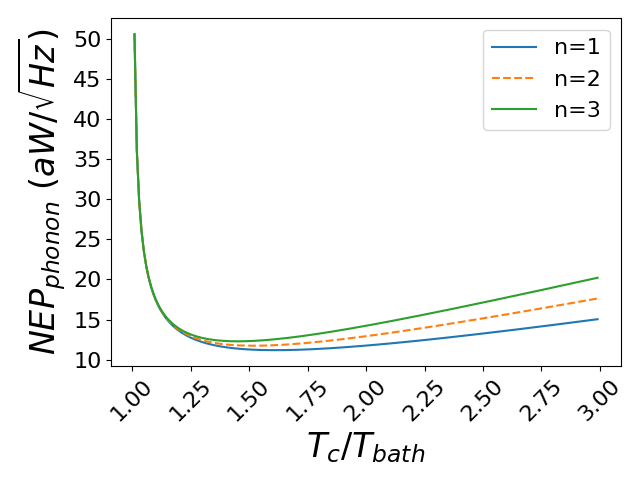
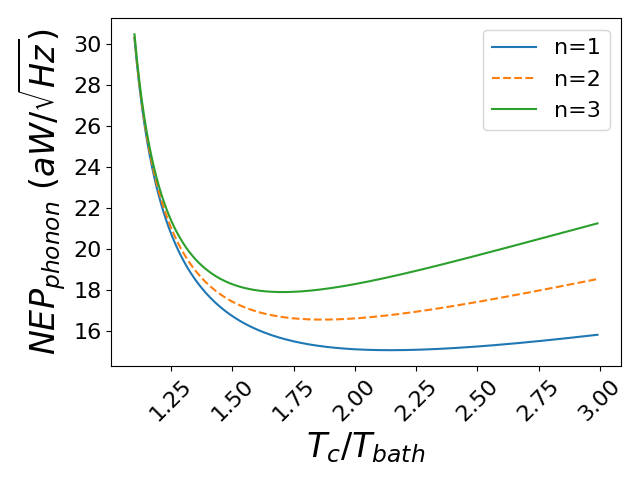
update ideal tc figure and section

diff --git a/optimization.tex b/optimization.tex
@@ -430,17 +430,21 @@ To express the phonon \ac{NEP} as a function of our measurable quantities,
 we replaced gamma by equation~\ref{eq:gamma} and let $g = dP/dT$. 
 The phonon \ac{NEP} as a function of the critical temperature $T_{c}$, the power of thermal conductivity $n$,  the power to hold the detector in the transition $P_{sat}$, and the bath temperature $T_{bath}$ is
 \begin{equation}
-NEP_{phonon}^2 & = 4k_{B}T_{bath}P_{sat}\frac{(n+1)^{2}}{(2n+3)^2}\frac{\left(\frac{T_{c}}{T_{bath}}\right)^{2n+3}-1}{\left( \left(\frac{T_{c}}{T_{bath}}\right)^{n+1}-1\right)^{2}}
+NEP_{phonon}^2 = 4k_{B}T_{bath}P_{sat}\frac{(n+1)^{2}}{(2n+3)^2}\frac{\left(\frac{T_{c}}{T_{bath}}\right)^{2n+3}-1}{\left( \left(\frac{T_{c}}{T_{bath}}\right)^{n+1}-1\right)^{2}}
 \end{equation}
-If we assumed $T_{bath}$ was 0.26~K, $P_{sat}$ was 6~pW, and $n$ was in between one and three, then the phonon \ac{NEP} was minimized at a ratio of transition temperature to bath temperature, $\frac{T_{c}}{T_{bath}}$, of $\sim$1.7, Figure~\ref{fig:phonon_nep_vs_temps}. 
-Note, the phonon noise only increases shallowly around the minimum. 
-An error of $\pm20\%$ in $T_{c}$ would change the detector \ac{NEP} by XXX. 
-The \ac{EBEX} bath temperature was 260~mK and so the target critical temperature for all \ac{EBEX} observation frequency bands was 440~mK.
+We assumed $T_{bath}$ was 250~mK, $P_{sat}$ was 6~pW, and $n$ was in between one and three, Figure~\ref{fig:phonon_nep_vs_temps}. 
+For $n=2$, the phonon \ac{NEP} was minimized at a ratio of transition temperature to bath temperature, $\frac{T_{c}}{T_{bath}}$, of $\sim$1.75. 
+%Note, the phonon noise only increases shallowly around the minimum. 
+%An error of $\pm20\%$ in $T_{c}$ would change the detector \ac{NEP} by XXX. 
+%COME BACK TO THIS CALCULATION IF YOU HAVE TIME
+The \ac{EBEX} bath temperature was $\sim$250~mK and so the target critical temperature for all \ac{EBEX} observation frequency bands was 440~mK.
+%Ben writes the target was 0.48K !
+% he assumed t_ebex = 0.275K and psat = 3.5pw and n=3
 
 \begin{figure}[htp]
 \begin{center}
 \includegraphics[height=2.5in]{figures/phonon_nep_vs_temperature.png}
-\caption{Phonon \ac{NEP} as a function of the ratio of critical temperature to bath temperature for three different values of the thermal conductivity power. The goal was to choose $T_{c}$ such that phonon noise was minimized. \textcolor{red}{remake this figure with a single value of n. but which is the correct one to use? we assumed n=3 when we set our targets? WHY ISN'T 1.7 OUR MININUM? try ben's numbers instead?}
+\caption{Phonon \ac{NEP} as a function of the ratio of critical temperature to bath temperature for three different values of the thermal conductivity power. The goal was to choose $T_{c}$ such that phonon noise was minimized.
 \label{fig:phonon_nep_vs_temps} }
 \end{center}
 \end{figure}
